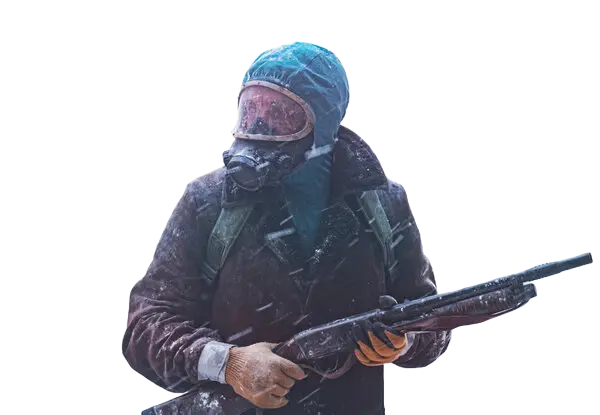
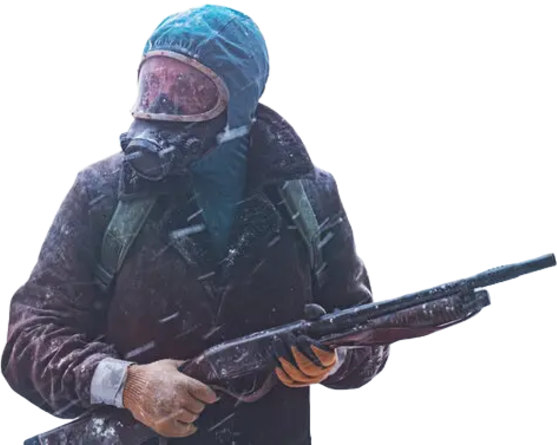
Add dynamic pages

diff --git a/src/components/ui/SectionWithMovieSlider.tsx b/src/components/ui/SectionWithMovieSlider.tsx
@@ -1,6 +1,7 @@
 import { motion } from "framer-motion"
 import { ChevronLeft, Play } from "lucide-react"
 import { useState } from "react"
+import { Link } from "react-router-dom"
 import usePath from "../../hooks/usePath"
 import type { Movie } from "../../types/movieType"
 interface Props {
@@ -9,8 +10,8 @@ interface Props {
 }
 
 export function SectionWithMovieSlider({ sectionTitle, movies }: Props) {
-  const [currentIndex, setCurrentIndex] = useState(0)
   const path = usePath()
+  const [currentIndex, setCurrentIndex] = useState(0)
   const itemsPerPage = 5
   const totalPages = Math.ceil(movies.length / itemsPerPage)
   const next = () => {
@@ -60,9 +61,8 @@ export function SectionWithMovieSlider({ sectionTitle, movies }: Props) {
           </button>
         </div>
       </motion.div>
-      {/* flex justify-between gap-6 bg-bg slider-shadow  */}
       <motion.ul
-        className="flex bg-bg gap-7 slider-shadow transition-transform duration-700 ease-[cubic-bezier(0.5,0,0.1,1)]"
+        className="flex gap-7 transition-transform duration-700 ease-[cubic-bezier(0.5,0,0.1,1)]"
         style={{ transform: `translateX(-${currentIndex * 100}%)` }}
         variants={container}
         initial="hidden"
@@ -83,7 +83,7 @@ export function SectionWithMovieSlider({ sectionTitle, movies }: Props) {
                 draggable={false}
               />
             ) : (
-              <a href={`/${movie.id}`} className="w-full h-full">
+              <Link to={`/${movie.id}`} className="w-full h-full">
                 <button className="absolute z-10 top-1/2 left-1/2 -translate-1/2 w-15 h-15 bg-text-muted rounded-full flex items-center justify-center group-hover:scale-105 duration-300">
                   <Play className="text-text" fill="var(--text)" size={20} />
                 </button>
@@ -93,7 +93,7 @@ export function SectionWithMovieSlider({ sectionTitle, movies }: Props) {
                   alt="Movie trailer cover."
                   draggable={false}
                 />
-              </a>
+              </Link>
             )}
           </motion.li>
         ))}

diff --git a/src/components/MainContent.tsx b/src/components/MainContent.tsx
@@ -1,3 +1,5 @@
+import { useMemo } from "react"
+import { useParams } from "react-router-dom"
 import { MOVIES_MOCK } from "../mock-data"
 import type { Movie } from "../types/movieType"
 import { BackgroundImage } from "./ui/BackgroundImage"
@@ -8,19 +10,26 @@ import { SectionWithMovieSlider } from "./ui/SectionWithMovieSlider"
 import { SocialLinksVidget } from "./ui/SocialLinksVidget"
 
 export function MainContent() {
+  const { id } = useParams()
   const data = MOVIES_MOCK as Movie[]
+
+  const movie = useMemo(() => {
+    return data.find(movie => movie.id === id)
+  }, [id, data])
+
+  if (!movie) return <p>Movie not found!</p>
 
   return (
     <main className="p-12 relative bg-bg h-screen grid grid-rows-[auto_253px] justify-items-center">
-      <BackgroundImage imageLink={data[0].assets.background} />
+      <BackgroundImage imageLink={movie.assets.background} />
 
       <div className="relative z-10 grid grid-cols-2 font-saira! tracking-wider w-full max-w-495 max-h-235.5">
         <div className="flex gap-12 items-center">
-          <SeasonsLinks seasonLinks={data[0].seasons} />
+          <SeasonsLinks seasonLinks={movie.seasons} />
 
-          <MovieDescription movieDescription={data[0]} />
+          <MovieDescription movie={movie} />
         </div>
-        <MainCharacter />
+        <MainCharacter imageLink={movie.assets.mainCharacter} />
         <SocialLinksVidget />
       </div>
       <SectionWithMovieSlider sectionTitle="Recommandation" movies={data} />

diff --git a/src/components/ui/MainCharacter.tsx b/src/components/ui/MainCharacter.tsx
@@ -1,6 +1,8 @@
 import { motion } from "framer-motion"
-
-export function MainCharacter() {
+interface Props {
+  imageLink: string
+}
+export function MainCharacter({ imageLink }: Props) {
   return (
     <div className="flex justify-start">
       <motion.div
@@ -10,14 +12,14 @@ export function MainCharacter() {
         transition={{ duration: 2, delay: 0.5 }}
       >
         <img
-          className="max-w-170"
-          src="/peaky-blinders/main-character.png"
+          className="character-bottom-shadow h-219.25 object-contain"
+          src={imageLink}
           alt="Movie main character."
           draggable={false}
         />
         <motion.img
-          className="brightness-0 invert absolute top-0 -z-10 scale-99"
-          src="/peaky-blinders/main-character.png"
+          className="brightness-0 invert absolute top-0 -z-10 scale-99 image-bottom-shadow h-219.25 object-contain"
+          src={imageLink}
           alt="Movie main character."
           draggable={false}
           initial={{ left: 0 }} // Начальное состояние

diff --git a/src/components/ui/NetflixPreloader.tsx b/src/components/ui/NetflixPreloader.tsx
@@ -3,7 +3,7 @@ import { motion } from "framer-motion"
 export const NetflixPreloader = () => {
   return (
     <motion.div
-      className="fixed inset-0 z-[100] flex items-center justify-center bg-black"
+      className="fixed inset-0 z-100 flex items-center justify-center bg-bg"
       exit={{ opacity: 0, scale: 1.1 }} // Анимация исчезновения
       transition={{ duration: 0.8, ease: "easeInOut" }}
     >
@@ -22,10 +22,12 @@ export const NetflixPreloader = () => {
           ease: "easeInOut",
         }}
       >
-        {/* Здесь ваше лого (SVG или текст) */}
-        <h1 className="text-[#E50914] text-7xl font-black tracking-tighter uppercase italic">
-          Netflix
-        </h1>
+        <img
+          className="w-42"
+          src="/netflix-logo.png"
+          alt="Netflix logo"
+          draggable={false}
+        />
       </motion.div>
     </motion.div>
   )

diff --git a/src/components/ui/MovieDescription.tsx b/src/components/ui/MovieDescription.tsx
@@ -1,18 +1,17 @@
 import { motion } from "framer-motion"
 import { Play } from "lucide-react"
-import type { MovieDescription } from "../../types/movieType"
+import type { Movie } from "../../types/movieType"
 interface Props {
-  movieDescription: MovieDescription
+  movie: Movie
 }
 
-export function MovieDescription({ movieDescription }: Props) {
-  const { ageLimit, description, duration, rating, releaseYear } =
-    movieDescription
+export function MovieDescription({ movie }: Props) {
+  const { ageLimit, description, duration, rating, releaseYear, assets } = movie
   return (
     <div className="flex flex-col items-start gap-6">
       <motion.img
         className="w-85"
-        src="/peaky-blinders/film-logo.png"
+        src={assets.logo}
         alt="Movie name."
         draggable={false}
         initial={{ opacity: 0 }} // Начальное состояние

diff --git a/src/index.css b/src/index.css
@@ -54,19 +54,17 @@ button {
   @apply min-h-screen;
 }
 
-.slider-shadow {
-  -webkit-box-shadow: 0px -10px 35px 30px rgba(0, 0, 0, 1);
-  -moz-box-shadow: 0px -10px 35px 30px rgba(0, 0, 0, 1);
-  box-shadow: 0px 0px 35px 30px rgba(0, 0, 0, 1);
-}
-
-
 p,span,a {
   font-size: 19px;
 }
 
 .image-bottom-shadow {
   mask: linear-gradient(
-    to bottom, var(--bg-main) 60%, transparent
+    to bottom, var(--bg-main) 40%, transparent
+  )
+}
+.character-bottom-shadow {
+  mask: linear-gradient(
+    to bottom, var(--bg-main) 95%, transparent
   )
 }

diff --git a/src/components/layout/MainRouter.tsx b/src/components/layout/MainRouter.tsx
@@ -24,6 +24,8 @@ export function MainRouter() {
         ) : (
           <Routes>
             <Route path={PUBLIC_PAGE.HOME} element={<HomePage />} />
+            <Route path={`${PUBLIC_PAGE.HOME}:id`} element={<HomePage />} />
+
             <Route path={PUBLIC_PAGE.MOVIES} element={<HomePage />} />
             <Route path={PUBLIC_PAGE.SERIES} element={<HomePage />} />
             <Route path={PUBLIC_PAGE.KIDS} element={<HomePage />} />

diff --git a/src/components/ui/SeasonsLinks.tsx b/src/components/ui/SeasonsLinks.tsx
@@ -20,7 +20,7 @@ export function SeasonsLinks({ seasonLinks }: Props) {
           <li key={idx}>
             <a
               className={`${
-                season.link === path
+                season.link === path || idx === 0
                   ? "text-text border-l border-text"
                   : "text-text-muted"
               } [writing-mode:vertical-rl] pl-2 rotate-180`}
